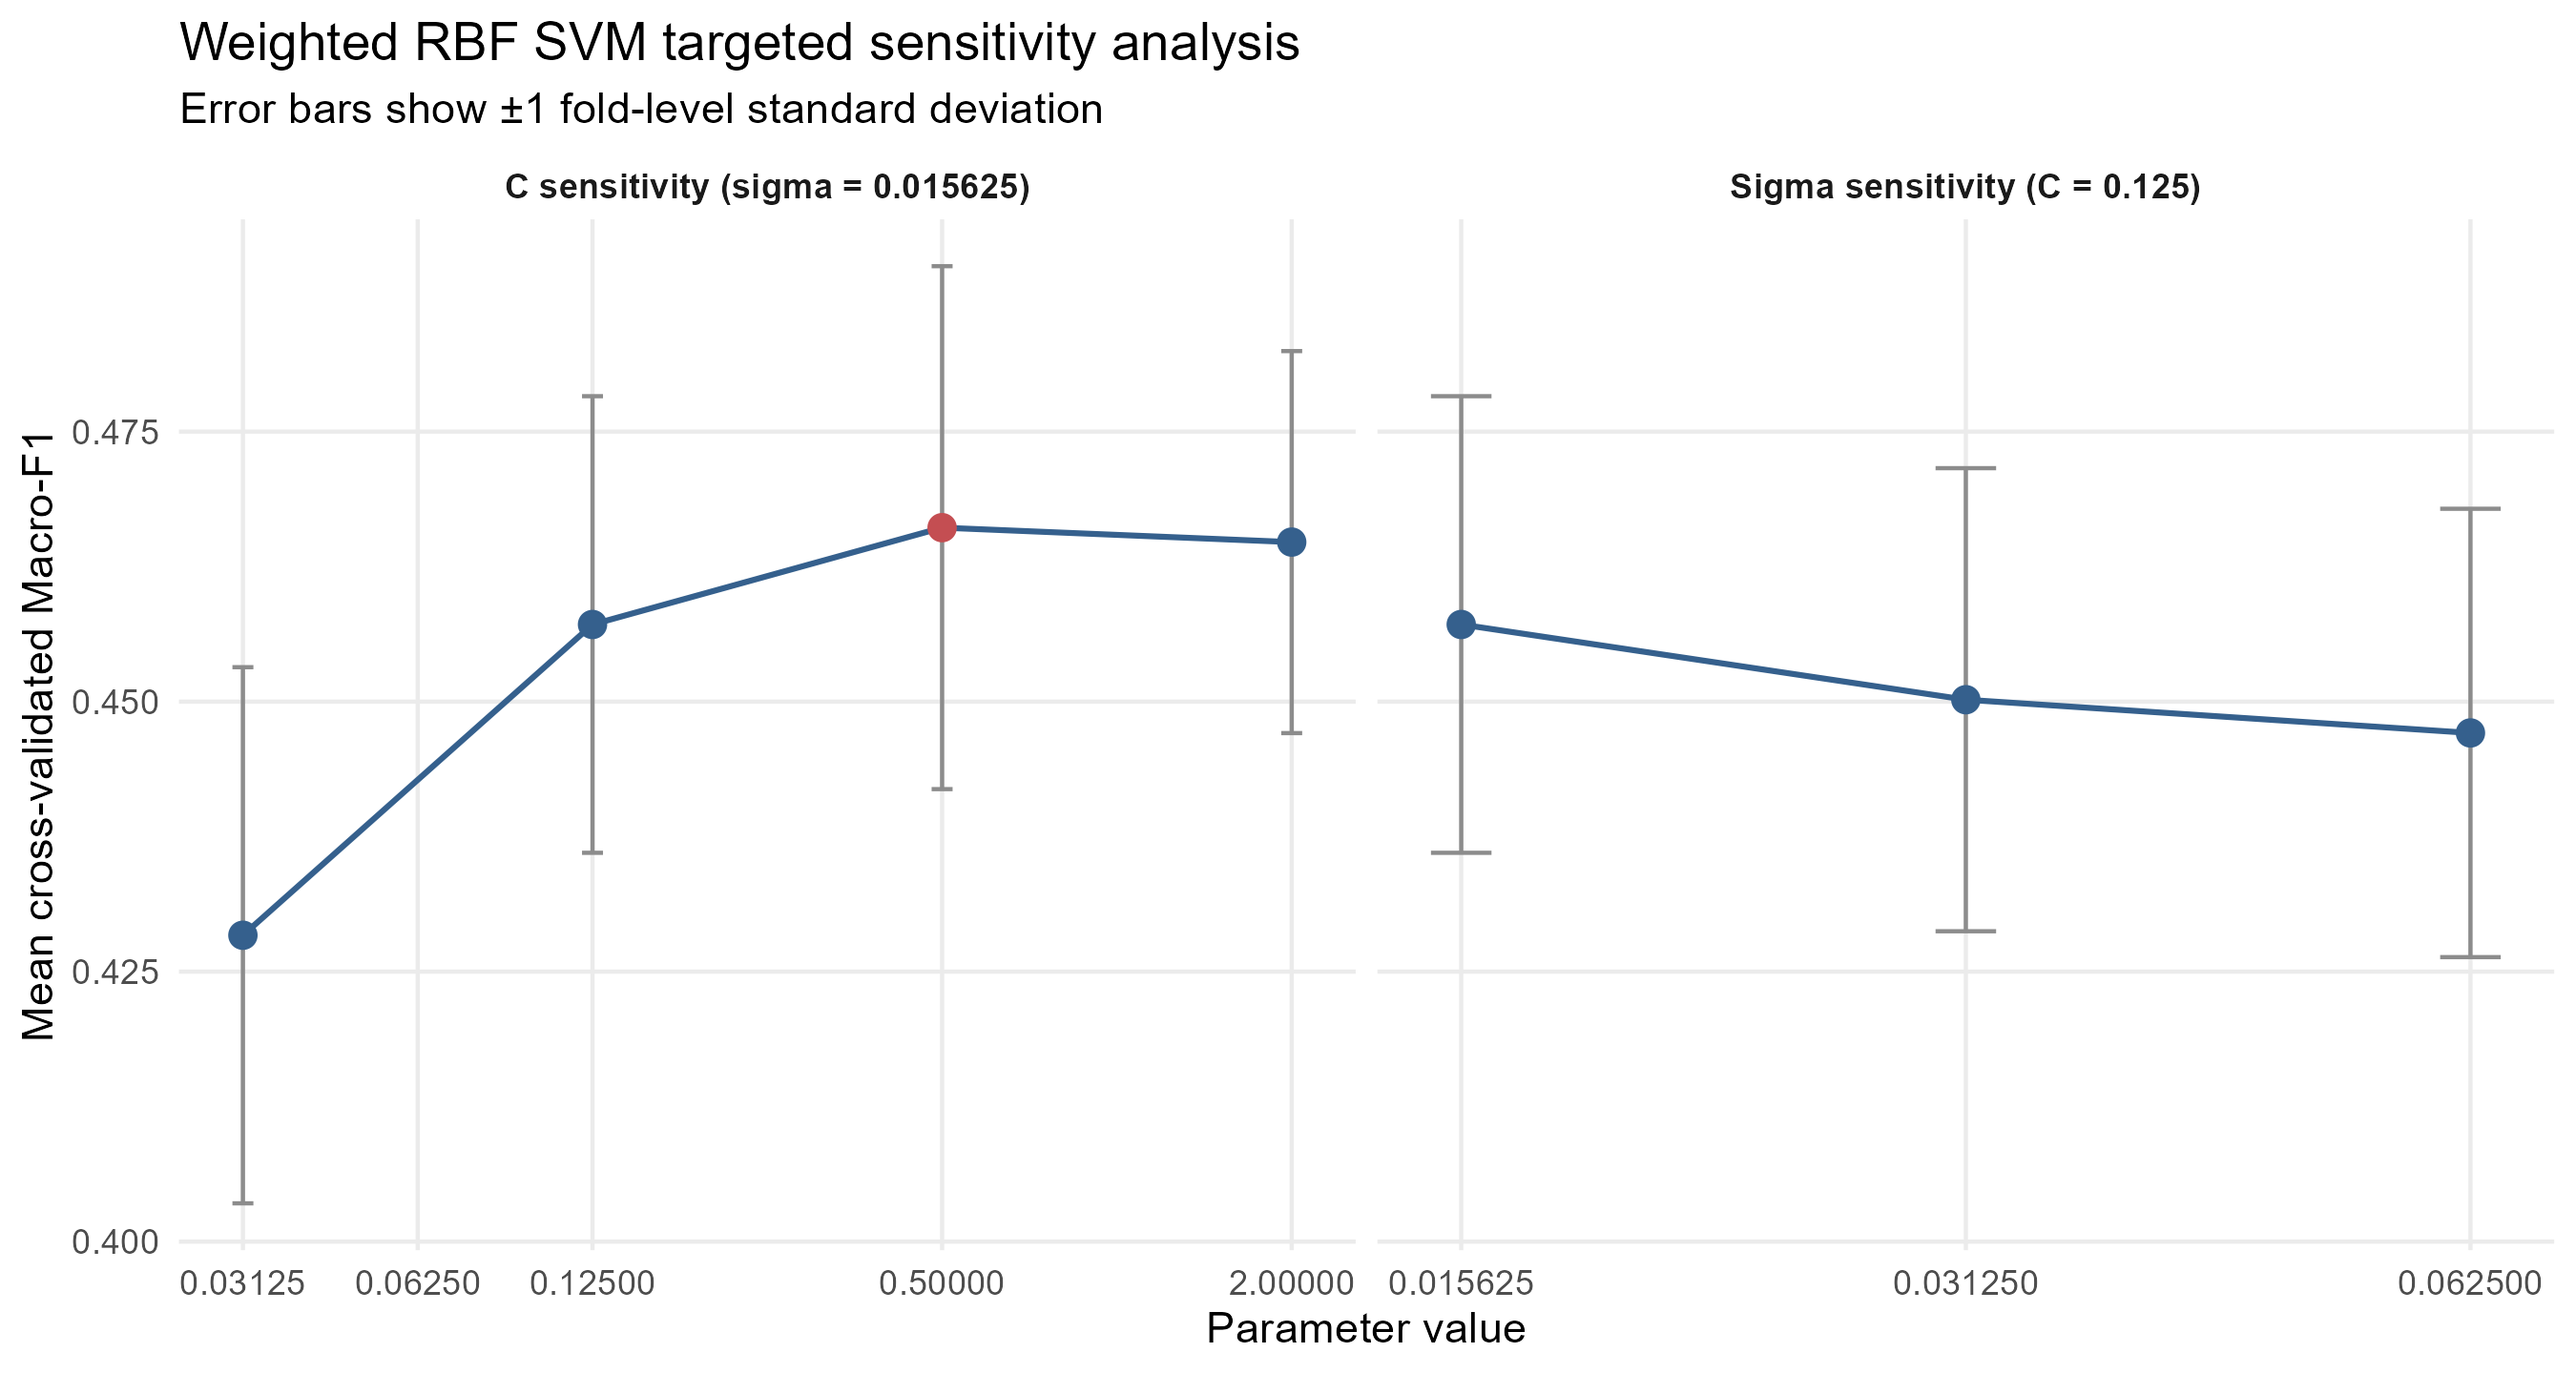
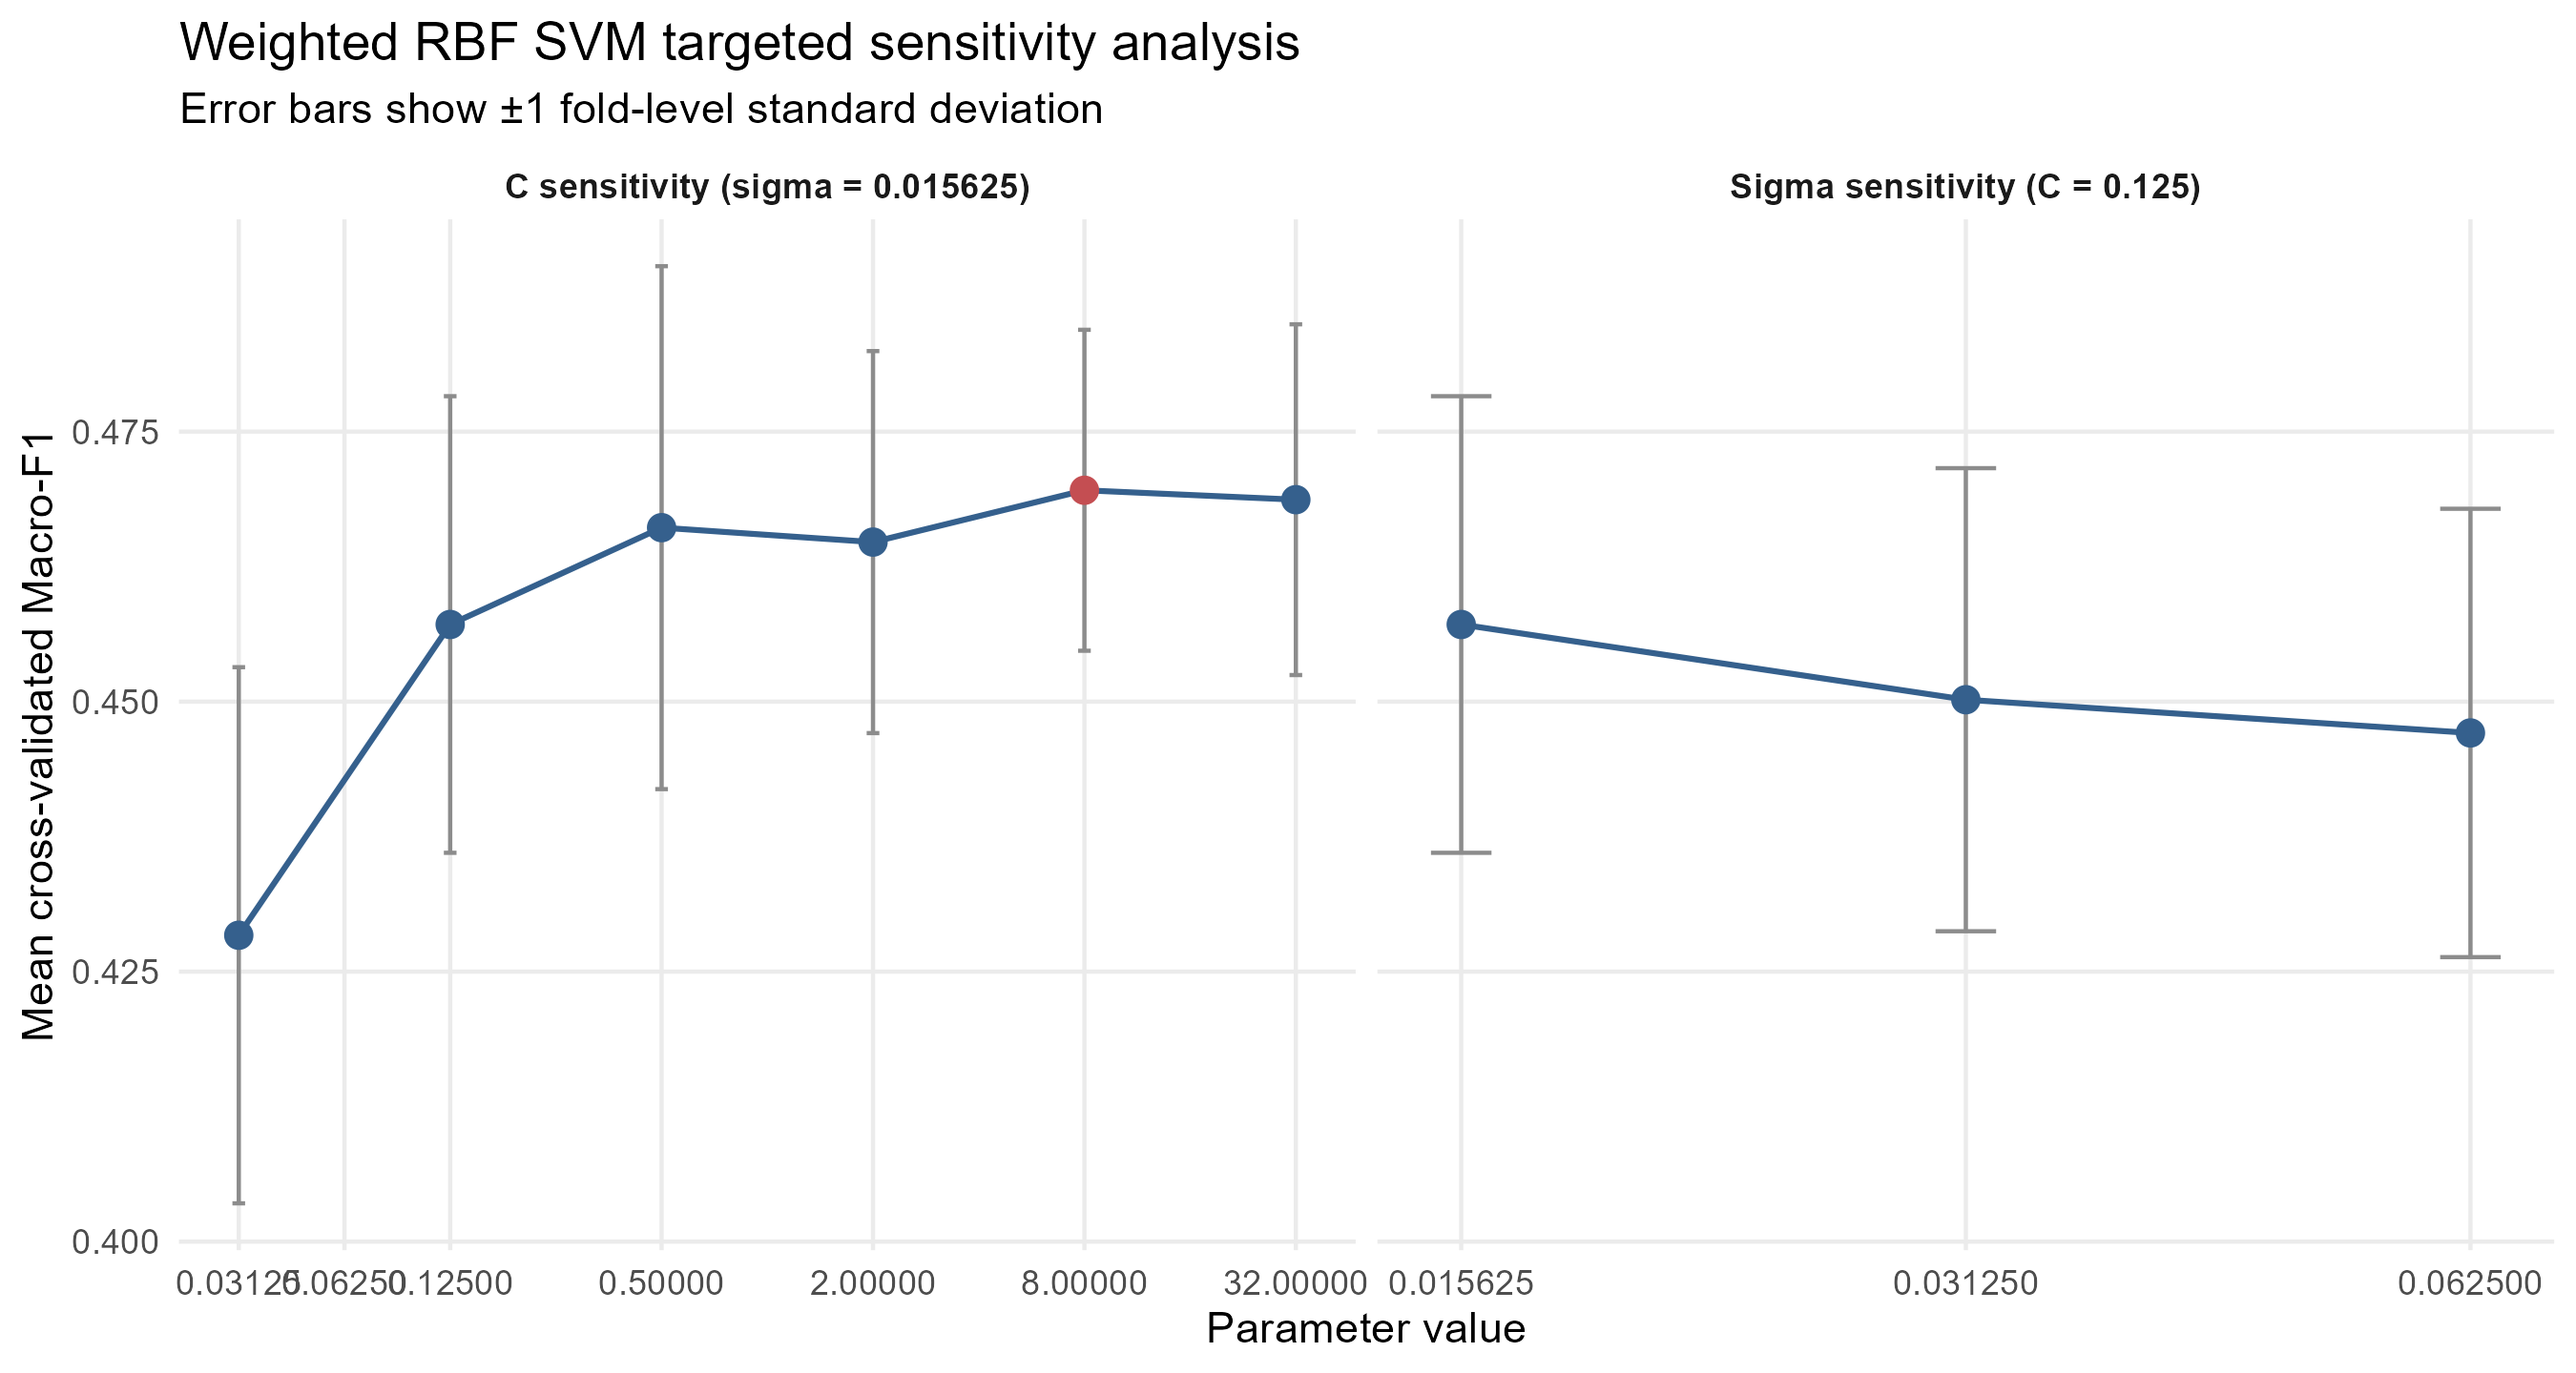
Extend RBF SVM cost tuning

diff --git a/SELECTED_MODEL_RESULTS_README.md b/SELECTED_MODEL_RESULTS_README.md
@@ -14,7 +14,7 @@ The corrected run has zero provider overlap between training and test, and exact
 |:---|---:|---:|---:|
 | MLR, shared split | 0.4871 | 0.0180 | 72.55% |
 | Random Forest | 0.4825 | 0.0265 | 63.02% |
-| SVM (RBF) | 0.4661 | 0.0242 | 73.05% |
+| SVM (RBF) | 0.4696 | 0.0149 | 70.95% |
 | LDA | 0.4364 | 0.0189 | 51.06% |
 | KNN | 0.4246 | 0.0247 | 72.24% |
 
